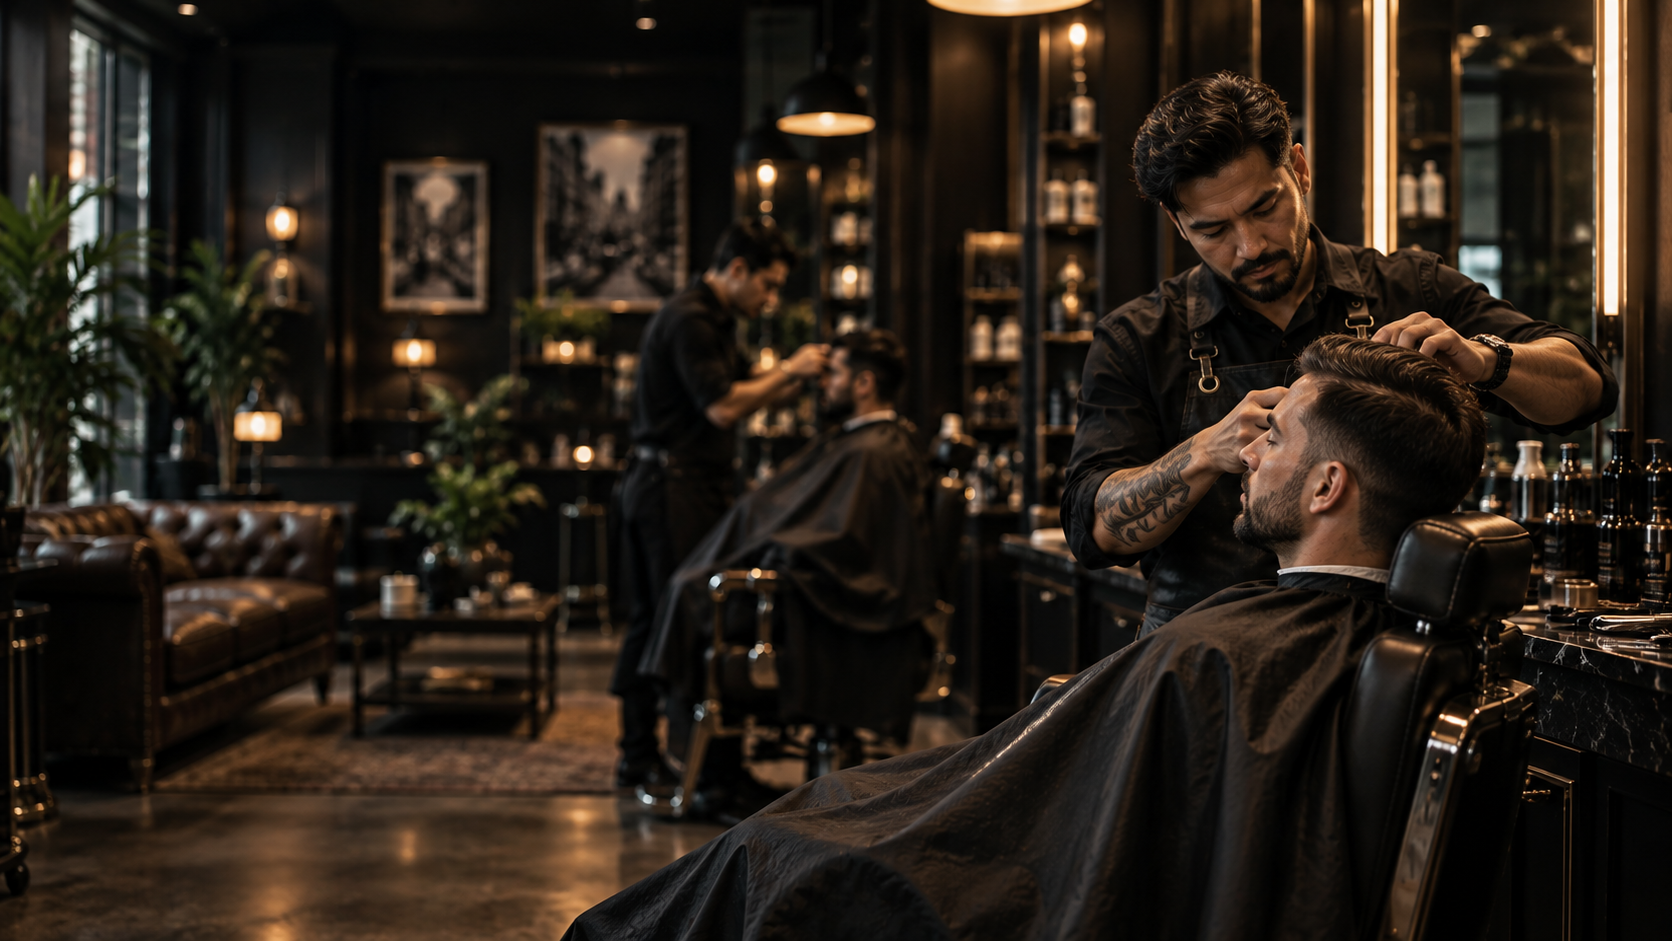
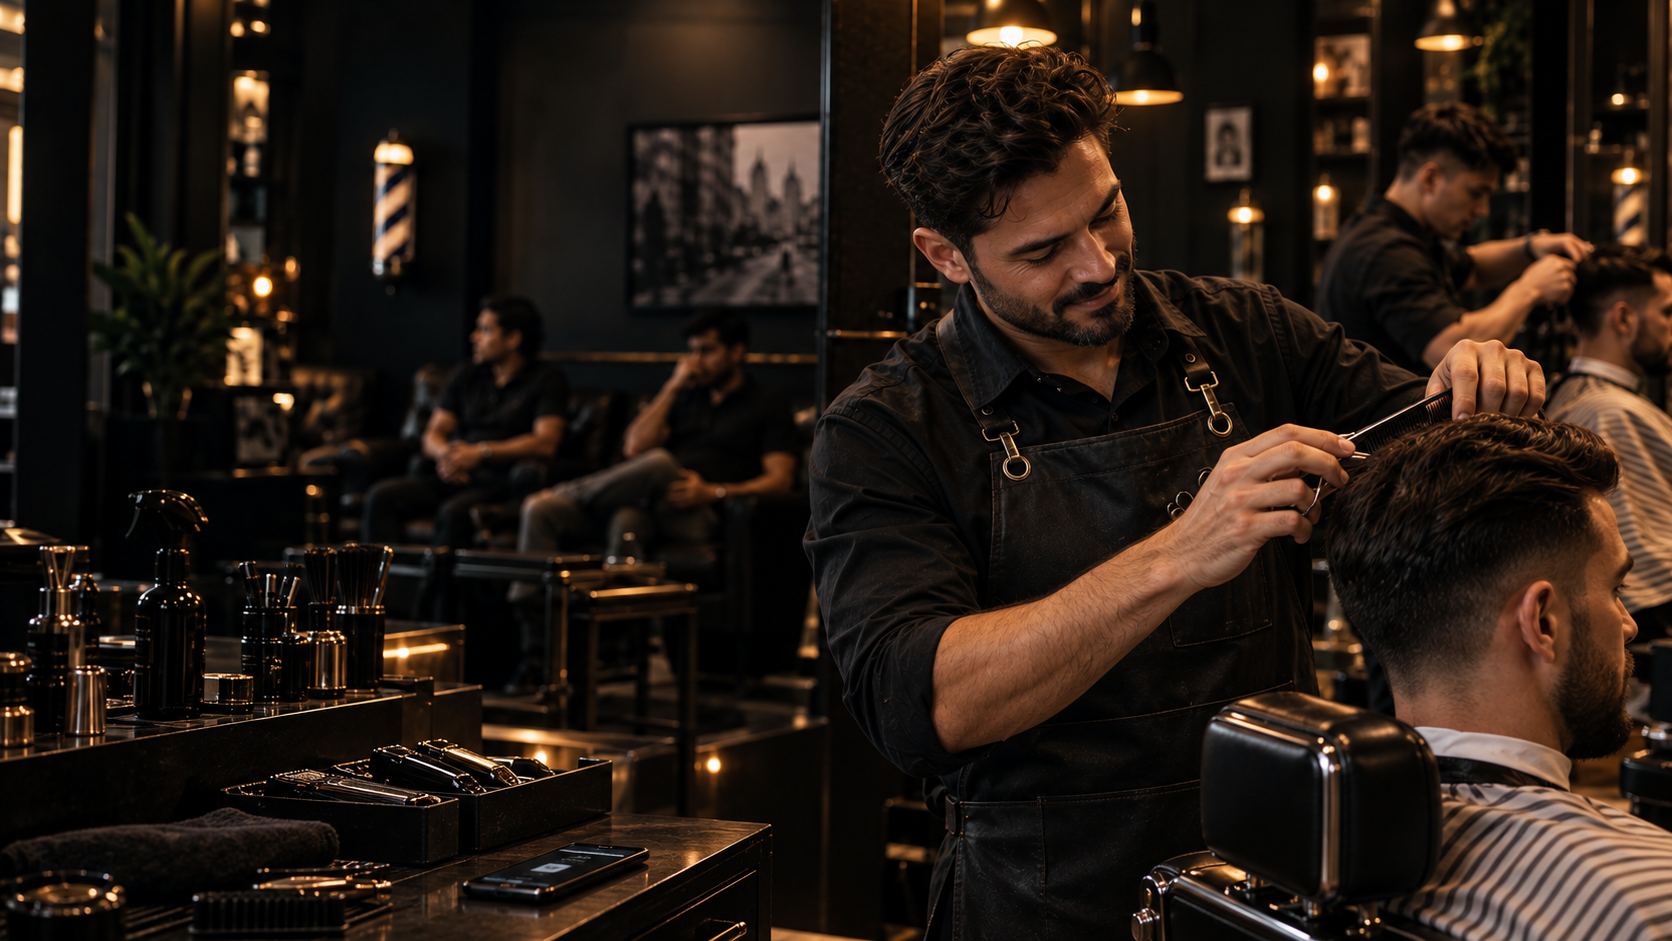
Show Sales Page before/after as a photo-backed booking-flow contrast, not a text-only list.

diff --git a/src/lib/i18n/dictionary.ts b/src/lib/i18n/dictionary.ts
@@ -337,20 +337,30 @@ export const dictionary = {
     "marketing.pain.chat3": "พรุ่งนี้ 14:30 ยังมีคิวไหม?",
     "marketing.pain.chat4": "ขอจองคิววันนี้ได้ไหมครับ",
     "marketing.pain.visualFooter": "คำถามคล้ายเดิม • เข้ามาเรื่อย ๆ ทั้งวัน",
-    "marketing.beforeAfter.title": "ก่อนและหลังใช้ BarberQx",
+    "marketing.beforeAfter.eyebrow": "ก่อนและหลังใช้ BarberQx",
+    "marketing.beforeAfter.titleLine1": "จากต้องคอยตอบทีละขั้น",
+    "marketing.beforeAfter.titleLine2": "เป็นให้ลูกค้าจองคิวเอง",
+    "marketing.beforeAfter.support": "ร้านยังเห็นคิวเหมือนเดิม แต่ไม่ต้องเป็นคนกลางทุกข้อความ",
     "marketing.beforeAfter.before": "ก่อน",
-    "marketing.beforeAfter.after": "กับ BarberQx",
+    "marketing.beforeAfter.beforeSubhead": "ร้านต้องคอยตอบระหว่างการจอง",
     "marketing.beforeAfter.before1": "ลูกค้าทัก LINE",
-    "marketing.beforeAfter.before2": "ถามเวลาว่าง",
+    "marketing.beforeAfter.before2": "ถามว่ามีคิวไหม",
     "marketing.beforeAfter.before3": "ร้านเช็กตาราง",
-    "marketing.beforeAfter.before4": "ตอบกลับ",
-    "marketing.beforeAfter.before5": "ลูกค้าเลือกใหม่",
-    "marketing.beforeAfter.before6": "ถามอีกครั้ง",
-    "marketing.beforeAfter.after1": "กดจองคิว",
+    "marketing.beforeAfter.before4": "ร้านตอบเวลาว่าง",
+    "marketing.beforeAfter.before5": "ลูกค้าเลือกเวลา",
+    "marketing.beforeAfter.before6": "ร้านยืนยันคิว",
+    "marketing.beforeAfter.beforeTakeaway": "ร้านต้องอยู่ในทุกขั้นตอน",
+    "marketing.beforeAfter.beforeAlt": "ช่างหยุดงานเพื่อเช็กข้อความจองคิว",
+    "marketing.beforeAfter.after": "กับ BarberQx",
+    "marketing.beforeAfter.afterSubhead": "ลูกค้าจองคิวเองผ่าน LINE",
+    "marketing.beforeAfter.after1": "เปิดหน้าจอง",
     "marketing.beforeAfter.after2": "เลือกช่าง",
     "marketing.beforeAfter.after3": "เลือกวัน",
     "marketing.beforeAfter.after4": "เลือกเวลา",
-    "marketing.beforeAfter.after5": "ยืนยันคิว",
+    "marketing.beforeAfter.after5": "ยืนยันการจอง",
+    "marketing.beforeAfter.afterTakeaway": "ร้านไม่ต้องตอบคำถามเรื่องคิวทีละข้อความ",
+    "marketing.beforeAfter.afterAlt": "ช่างโฟกัสงานตัดผมในร้าน",
+    "marketing.beforeAfter.transition": "↓ เปลี่ยนเป็น",
     "marketing.how.title": "วิธีใช้งาน",
     "marketing.how.1": "ลูกค้ากดจองจาก LINE OA ของร้าน",
     "marketing.how.2": "เลือกช่าง วัน เวลา แล้วยืนยัน",
@@ -1015,20 +1025,30 @@ export const dictionary = {
     "marketing.pain.chat3": "Is 2:30 tomorrow still open?",
     "marketing.pain.chat4": "Can I book for today?",
     "marketing.pain.visualFooter": "Similar questions • coming in all day",
-    "marketing.beforeAfter.title": "Before and after BarberQx",
+    "marketing.beforeAfter.eyebrow": "Before and after BarberQx",
+    "marketing.beforeAfter.titleLine1": "From answering every step",
+    "marketing.beforeAfter.titleLine2": "to letting customers book themselves",
+    "marketing.beforeAfter.support": "The shop still sees the queue, without sitting in the middle of every message",
     "marketing.beforeAfter.before": "Before",
-    "marketing.beforeAfter.after": "With BarberQx",
+    "marketing.beforeAfter.beforeSubhead": "The shop has to reply during booking",
     "marketing.beforeAfter.before1": "Customer messages on LINE",
-    "marketing.beforeAfter.before2": "Asks for open slots",
-    "marketing.beforeAfter.before3": "Shop checks schedule",
-    "marketing.beforeAfter.before4": "Replies",
-    "marketing.beforeAfter.before5": "Customer picks again",
-    "marketing.beforeAfter.before6": "Asks again",
-    "marketing.beforeAfter.after1": "Tap book",
+    "marketing.beforeAfter.before2": "Asks if there is a slot",
+    "marketing.beforeAfter.before3": "Shop checks the schedule",
+    "marketing.beforeAfter.before4": "Shop replies with open times",
+    "marketing.beforeAfter.before5": "Customer picks a time",
+    "marketing.beforeAfter.before6": "Shop confirms the booking",
+    "marketing.beforeAfter.beforeTakeaway": "The shop has to be in every step",
+    "marketing.beforeAfter.beforeAlt": "Barber pausing work to check booking messages",
+    "marketing.beforeAfter.after": "With BarberQx",
+    "marketing.beforeAfter.afterSubhead": "Customers book themselves through LINE",
+    "marketing.beforeAfter.after1": "Open the booking page",
     "marketing.beforeAfter.after2": "Pick barber",
     "marketing.beforeAfter.after3": "Pick date",
     "marketing.beforeAfter.after4": "Pick time",
     "marketing.beforeAfter.after5": "Confirm booking",
+    "marketing.beforeAfter.afterTakeaway": "The shop does not have to answer queue questions one message at a time",
+    "marketing.beforeAfter.afterAlt": "Barber focused on a haircut in the shop",
+    "marketing.beforeAfter.transition": "↓ Then",
     "marketing.how.title": "How it works",
     "marketing.how.1": "Customer books from shop LINE OA",
     "marketing.how.2": "Pick barber, date, time, confirm",

diff --git a/src/components/marketing/SalesPage.tsx b/src/components/marketing/SalesPage.tsx
@@ -1,10 +1,10 @@
 "use client";
 
 import { useEffect } from "react";
+import Image from "next/image";
 import {
   ArrowRight,
   Check,
-  ChevronDown,
   Clock3,
   MessageCircleOff,
   Store,
@@ -49,51 +49,72 @@ function Section({
   );
 }
 
-function FlowCard({
+function CompareCard({
   label,
+  subhead,
   steps,
+  takeaway,
   variant,
+  imageSrc,
+  imageAlt,
 }: {
   label: string;
+  subhead: string;
   steps: string[];
+  takeaway: string;
   variant: "before" | "after";
+  imageSrc: string;
+  imageAlt: string;
 }) {
   const isAfter = variant === "after";
   return (
     <div
-      className={`rounded-2xl border p-6 ${
+      className={`overflow-hidden rounded-2xl border ${
         isAfter
           ? "border-amber-500/40 bg-amber-500/5"
           : "border-zinc-800 bg-zinc-900/50"
       }`}
     >
-      <h3
-        className={`flex items-center gap-2 font-semibold ${
-          isAfter ? "text-amber-400" : "text-zinc-400"
-        }`}
-      >
-        {isAfter ? <Check size={18} /> : null}
-        {label}
-      </h3>
-      <ol className="mt-4 space-y-2">
-        {steps.map((step, i) => (
-          <li key={i} className={`flex items-center gap-2 ${BODY}`}>
-            {i > 0 ? (
-              <ArrowRight
-                size={14}
-                className={`hidden shrink-0 md:inline ${isAfter ? "text-amber-500/60" : "text-zinc-600"}`}
-              />
-            ) : null}
-            <span className={isAfter ? "text-zinc-200" : "text-zinc-400"}>{step}</span>
-            {i < steps.length - 1 ? (
-              <ChevronDown
-                size={14}
-                className={`shrink-0 md:hidden ${isAfter ? "text-amber-500/60" : "text-zinc-600"}`}
-              />
-            ) : null}
-          </li>
-        ))}
-      </ol>
+      <div className="relative h-40 w-full overflow-hidden md:h-48">
+        <Image
+          src={imageSrc}
+          alt={imageAlt}
+          width={1672}
+          height={941}
+          sizes="(max-width: 767px) 92vw, (max-width: 1023px) 48vw, 580px"
+          className={`h-full w-full object-cover object-[70%_center] ${
+            isAfter ? "" : "opacity-90 saturate-75"
+          }`}
+        />
+      </div>
+      <div className="p-4 md:p-5">
+        <h3
+          className={`flex items-center gap-2 font-semibold ${
+            isAfter ? "text-amber-400" : "text-zinc-400"
+          }`}
+        >
+          {isAfter ? <Check size={18} /> : null}
+          {label}
+        </h3>
+        <p className="mt-1 text-sm text-zinc-300">{subhead}</p>
+        <ol className="mt-3 space-y-1.5">
+          {steps.map((step, i) => (
+            <li key={i} className="flex gap-2 text-[13px] leading-snug md:text-sm">
+              <span
+                className={`w-6 shrink-0 font-semibold tabular-nums ${
+                  isAfter ? "text-amber-400/80" : "text-zinc-500"
+                }`}
+              >
+                {String(i + 1).padStart(2, "0")}
+              </span>
+              <span className={isAfter ? "text-zinc-200" : "text-zinc-400"}>{step}</span>
+            </li>
+          ))}
+        </ol>
+        <p className={`mt-3 text-sm ${isAfter ? "text-amber-400/90" : "text-zinc-500"}`}>
+          {takeaway}
+        </p>
+      </div>
     </div>
   );
 }
@@ -176,20 +197,42 @@ export function SalesPage() {
       </section>
 
       {/* Before / After */}
-      <Section title={t("marketing.beforeAfter.title")}>
-        <div className="grid gap-6 md:grid-cols-2">
-          <FlowCard
-            label={t("marketing.beforeAfter.before")}
-            steps={beforeSteps}
-            variant="before"
-          />
-          <FlowCard
-            label={t("marketing.beforeAfter.after")}
-            steps={afterSteps}
-            variant="after"
-          />
+      <section className="overflow-x-clip">
+        <div className="mx-auto max-w-[1280px] px-4 py-8 md:px-6 md:py-10">
+          <p className="text-sm font-medium text-amber-400/90">
+            {t("marketing.beforeAfter.eyebrow")}
+          </p>
+          <h2 className="mt-2 text-[1.75rem] font-bold leading-[1.2] text-zinc-50 md:text-4xl lg:text-[2.5rem]">
+            {t("marketing.beforeAfter.titleLine1")}
+            <br />
+            {t("marketing.beforeAfter.titleLine2")}
+          </h2>
+          <p className={`mt-3 ${BODY}`}>{t("marketing.beforeAfter.support")}</p>
+          <div className="mt-6 grid items-stretch gap-4 lg:grid-cols-[minmax(0,47%)_minmax(0,53%)] lg:gap-6">
+            <CompareCard
+              label={t("marketing.beforeAfter.before")}
+              subhead={t("marketing.beforeAfter.beforeSubhead")}
+              steps={beforeSteps}
+              takeaway={t("marketing.beforeAfter.beforeTakeaway")}
+              variant="before"
+              imageSrc="/marketing/barberqx/before-manual-booking.png"
+              imageAlt={t("marketing.beforeAfter.beforeAlt")}
+            />
+            <p className="text-center text-sm text-zinc-500 lg:hidden">
+              {t("marketing.beforeAfter.transition")}
+            </p>
+            <CompareCard
+              label={t("marketing.beforeAfter.after")}
+              subhead={t("marketing.beforeAfter.afterSubhead")}
+              steps={afterSteps}
+              takeaway={t("marketing.beforeAfter.afterTakeaway")}
+              variant="after"
+              imageSrc="/marketing/barberqx/after-organized-workflow.png"
+              imageAlt={t("marketing.beforeAfter.afterAlt")}
+            />
+          </div>
         </div>
-      </Section>
+      </section>
 
       {/* How it works */}
       <Section id="how-it-works" title={t("marketing.how.title")} className="bg-zinc-900/30">

diff --git a/src/lib/marketing/layout.test.ts b/src/lib/marketing/layout.test.ts
@@ -88,6 +88,27 @@ describe("marketing layout split", () => {
     assert.doesNotMatch(dict, /ให้ BarberQx รับงานตรงนี้แทน/);
   });
 
+  it("before after comparison uses supporting photos without overclaiming", () => {
+    const sales = readFileSync(
+      resolve(root, "components/marketing/SalesPage.tsx"),
+      "utf8",
+    );
+    const dict = readFileSync(resolve(root, "lib/i18n/dictionary.ts"), "utf8");
+    const assets = resolve(root, "../public/marketing/barberqx");
+    assert.match(sales, /before-manual-booking\.png/);
+    assert.match(sales, /after-organized-workflow\.png/);
+    assert.match(sales, /from "next\/image"/);
+    assert.match(sales, /marketing\.beforeAfter/);
+    const ba = dict.match(
+      /"marketing\.beforeAfter[\s\S]*?"marketing\.how\.title"/,
+    );
+    assert.ok(ba);
+    assert.match(ba[0], /ร้านไม่ต้องตอบคำถามเรื่องคิวทีละข้อความ/);
+    assert.doesNotMatch(ba[0], /no-show|revenue|reminder before|ไม่มาตามนัด|รายได้เพิ่มขึ้น/i);
+    assert.equal(existsSync(resolve(assets, "before-manual-booking.png")), true);
+    assert.equal(existsSync(resolve(assets, "after-organized-workflow.png")), true);
+  });
+
   it("trial page uses focused chrome without sales nav CTA", () => {
     const trial = readFileSync(
       resolve(root, "components/marketing/TrialForm.tsx"),
